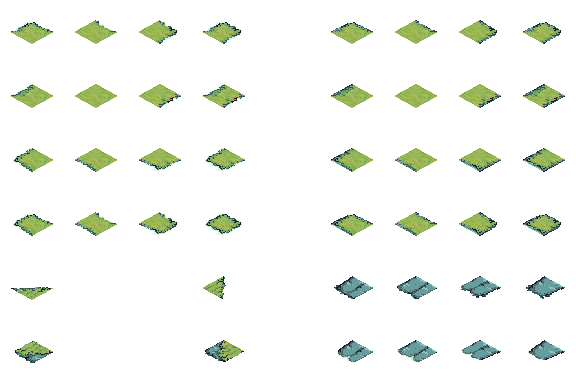
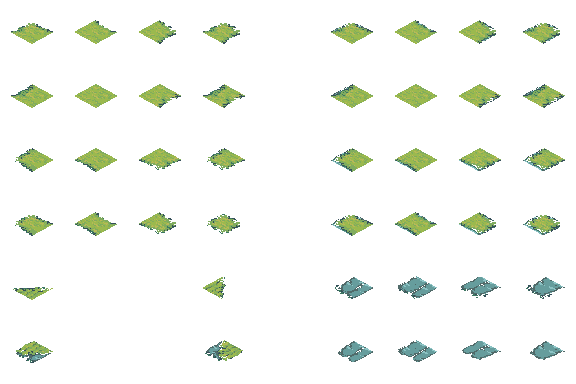
feat(rivage): l'ecume quitte la tuile, le gazon tombe net dans la mer
Le bord de mer du palier 1 portait son propre surf blanc, peint dans la
tuile, sous l'ecume animee que l'ile dessine par-dessus : deux cotes pour
un seul rivage. `palette-1` est repeint a la main pour n'en garder qu'une.

Le sheet est bake en webp lossless depuis le PNG de travail, au pixel
pres, et `TERRAIN_REV` passe a v5 — sans quoi les navigateurs servent
l'ancienne image depuis leur cache.

La story `Island/Shore Sets` reste comme banc d'essai : elle rend la meme
ile deux fois, cut des colonnes 0-3 et 5-8, avec zoom et point de visee,
pour juger un bord sur des pixels plutot que sur le commentaire du code.

diff --git a/src/stories/ShoreSets.stories.tsx b/src/stories/ShoreSets.stories.tsx
@@ -1,0 +1,276 @@
+/**
+ * The two blob sets on one island: which columns should draw the shore.
+ *
+ * The palette sheets are 9x6 and carry the SAME grass blob set twice. Columns
+ * 0-3 have the surf painted into the tile; columns 5-8 have a plain rock edge.
+ * `tileset.ts` takes 5-8 and the island animates its own foam over it — the
+ * reasoning being that a painted surf plus a moving one is two coastlines.
+ *
+ * This story exists to check that reasoning against pixels rather than against
+ * the comment. Both panels are the SAME seed, the same tier, the same animated
+ * foam: the only difference is which four columns the tier's blob set is cut
+ * from, so whatever changes between them is that choice and nothing else.
+ *
+ * Read the rim where land meets water. The question is whether 0-3's painted
+ * white reinforces the moving surf or fights it — and whether 5-8's dark rock
+ * edge is the hard line it looks like on the sheet.
+ */
+import type { Meta, StoryObj } from '@storybook/react-vite';
+import { Assets, Container, Graphics, Rectangle, Texture } from 'pixi.js';
+import { PixiStage } from './PixiStage';
+import {
+  generateIsland,
+  IsoIslandView,
+  loadIslandTileset,
+  TILE,
+  type IslandTileset,
+} from '@/game/island';
+
+/** The flat sea the game shows behind the island, standing in for the shader. */
+const SEA = '#0d8296';
+
+/** One panel. Two of them sit side by side in the stage. */
+const PANEL_W = 470;
+const PANEL_H = 540;
+
+/** The tier whose blob set gets swapped. 1-based, and 1 is the sea-level shelf. */
+const TIER = 1;
+
+/**
+ * The SHIPPED sheet, now that the repaint is baked.
+ *
+ * It carries `tileset.ts`'s `TERRAIN_REV`, because that is the URL the game
+ * actually serves and the browser has the old pixels cached under the previous
+ * one. While a repaint is still in progress, point this at the `.png` working
+ * file instead — Aseprite does not write webp, and `loadBlobSets` unloads
+ * before loading so each look picks up the latest save.
+ */
+const SHEET = '/assets/terrain/palette-1.webp?v=5';
+
+const PACK_FOAM = '/assets/terrain-iso/pack-foam.webp';
+const PACK_FOAM_FRAME = 128;
+const PACK_FOAM_FRAMES = 8;
+
+const PALETTE_COLS = 9;
+const PALETTE_ROWS = 6;
+
+/** The two candidate origins, named for what they carry on the tile's edge. */
+const ORIGINS = { surf: 0, rock: 5 } as const;
+type Edge = keyof typeof ORIGINS;
+
+function sliceGrid(base: Texture, cols: number, rows: number): Texture[][] {
+  return Array.from({ length: rows }, (_, row) =>
+    Array.from(
+      { length: cols },
+      (_, col) =>
+        new Texture({
+          source: base.source,
+          frame: new Rectangle(col * TILE, row * TILE, TILE, TILE),
+        }),
+    ),
+  );
+}
+
+/** Cut the 4x4 blob set starting at `origin`, which is the whole experiment. */
+/**
+ * Load the sheet once, fresh, and hand back both cuts of it.
+ *
+ * One load for the pair, deliberately: `Assets.unload` is what makes a repaint
+ * visible, and calling it per panel would have the second panel drop the sheet
+ * the first had just loaded. Both cuts share one GPU source, which is also
+ * what guarantees the two panels differ by their COLUMNS and nothing else.
+ */
+async function loadBlobSets(): Promise<Record<Edge, Texture[][]>> {
+  // Pixi caches by URL, and on a file being actively repainted that cache is
+  // the one failure mode that looks like "my edit did nothing".
+  await Assets.unload(SHEET).catch(() => {});
+  const sheet = await Assets.load<Texture>(SHEET);
+  const cells = sliceGrid(sheet, PALETTE_COLS, PALETTE_ROWS).slice(0, 4);
+  const cut = (origin: number) => cells.map((line) => line.slice(origin, origin + 4));
+  return { surf: cut(ORIGINS.surf), rock: cut(ORIGINS.rock) };
+}
+
+async function loadPackFoam(): Promise<Texture[]> {
+  const sheet = await Assets.load<Texture>(PACK_FOAM);
+  return Array.from(
+    { length: PACK_FOAM_FRAMES },
+    (_, i) =>
+      new Texture({
+        source: sheet.source,
+        frame: new Rectangle(i * PACK_FOAM_FRAME, 0, PACK_FOAM_FRAME, PACK_FOAM_FRAME),
+      }),
+  );
+}
+
+interface Args {
+  seed: string;
+  width: number;
+  height: number;
+  tiers: number;
+  land: number;
+  rise: number;
+  raggedness: number;
+  deco: boolean;
+  grass: boolean;
+  foam: boolean;
+  groundScale: number;
+  foamScale: number;
+  tileZ: number;
+  /** Magnification. 1 fits the whole island in the panel; 6 reads pixels. */
+  zoom: number;
+  /** Which point of the island the zoom centres on, each 0..1 of its box. */
+  focusX: number;
+  focusY: number;
+}
+
+/**
+ * Build one island into `stage` at `offsetX`, cut from `edge`'s columns.
+ *
+ * Everything but `edge` is shared with the other panel, which is what makes
+ * the pair a comparison rather than two islands.
+ */
+function buildPanel(
+  stage: import('pixi.js').Container,
+  app: { ticker: { add: (f: (t: { deltaMS: number }) => void) => void; remove: (f: (t: { deltaMS: number }) => void) => void } },
+  base: IslandTileset,
+  blobs: Texture[][],
+  args: Args,
+  offsetX: number,
+) {
+  const tierGrass = base.tierGrass.map((set, i) => (i === TIER - 1 ? blobs : set));
+  const tileset: IslandTileset = { ...base, tierGrass, foam: base.foam };
+
+  // Each panel gets a clipped window of its own. Zoomed in, an island is wider
+  // than its half of the stage and would otherwise spill across the divider
+  // into its neighbour — which on a side-by-side comparison means reading one
+  // set's rim and believing it is the other's.
+  const frame = new Container();
+  frame.x = offsetX;
+  frame.boundsArea = new Rectangle(0, 0, PANEL_W, PANEL_H);
+  const clip = new Graphics().rect(0, 0, PANEL_W, PANEL_H).fill(0xffffff);
+  frame.addChild(clip);
+  frame.mask = clip;
+  stage.addChild(frame);
+
+  const map = generateIsland({
+    seed: args.seed,
+    width: args.width,
+    height: args.height,
+    tiers: args.tiers,
+    land: args.land,
+    rise: args.rise,
+    raggedness: args.raggedness,
+  });
+
+  const island = new IsoIslandView({
+    map,
+    tileset,
+    ground: 'tiered',
+    deco: args.deco,
+    grass: args.grass,
+    sea: false,
+    foam: args.foam,
+    groundScale: args.groundScale,
+    foamScale: args.foamScale,
+    metrics: { w: 64, h: 32, z: args.tileZ },
+  });
+  frame.addChild(island.view);
+
+  // `fit` is the scale that shows the whole island, and `zoom` multiplies it.
+  // Deriving the magnification from the fit rather than setting it absolutely
+  // keeps the two panels locked together whatever the island's size: at any
+  // zoom they are the same scale, which is the whole point of the pair.
+  const fit = Math.min(PANEL_W / island.width, PANEL_H / island.height);
+  const scale = fit * args.zoom;
+  island.view.scale.set(scale);
+  // Put the focus point at the panel's centre. At zoom 1 this is the ordinary
+  // centred fit; past it the island grows past the panel and this is what
+  // decides which part stays on screen — the rim, by default, since a shore
+  // tile is what the story is for.
+  // Panel-local, since the view now hangs off `frame` — which carries the
+  // offset itself.
+  island.view.position.set(
+    PANEL_W / 2 - island.width * scale * args.focusX,
+    PANEL_H / 2 - island.height * scale * args.focusY,
+  );
+
+  const ticker = (t: { deltaMS: number }) => island.update(t.deltaMS);
+  app.ticker.add(ticker);
+  return () => {
+    app.ticker.remove(ticker);
+    island.destroy();
+    frame.destroy({ children: true });
+  };
+}
+
+function Scene(args: Args) {
+  let base: IslandTileset | null = null;
+  let surf: Texture[][] | null = null;
+  let rock: Texture[][] | null = null;
+
+  return (
+    <PixiStage
+      width={PANEL_W * 2}
+      height={PANEL_H}
+      background={SEA}
+      prepare={async () => {
+        const loaded = await loadIslandTileset();
+        // The shipped `foam.webp` is a flat lozenge; the pack's strip is the
+        // real animated surf, and the surf is the thing both edges are being
+        // judged against.
+        base = { ...loaded, foam: await loadPackFoam() };
+        ({ surf, rock } = await loadBlobSets());
+      }}
+      setup={(stage, app) => {
+        if (!base || !surf || !rock) return;
+        // Left panel is columns 0-3, right is 5-8 — the same order as the
+        // sheet, so the story reads the way the file does.
+        const stopL = buildPanel(stage, app, base, surf, args, 0);
+        const stopR = buildPanel(stage, app, base, rock, args, PANEL_W);
+        return () => {
+          stopL();
+          stopR();
+        };
+      }}
+    />
+  );
+}
+
+const meta: Meta<Args> = {
+  title: 'Island/Shore Sets',
+  render: (args) => <Scene key={JSON.stringify(args)} {...args} />,
+  args: {
+    seed: 'harbour-9',
+    width: 24,
+    height: 24,
+    tiers: 3,
+    land: 0.46,
+    rise: 0.55,
+    raggedness: 0.4,
+    deco: false,
+    grass: false,
+    foam: true,
+    groundScale: 1.52,
+    foamScale: 1.8,
+    tileZ: 6,
+    // Close enough to read individual pixels of the rim, which is the whole
+    // question — the fitted island is far too small to judge a 2px liseré.
+    zoom: 5,
+    // The west shore: a long run of open rim with no cliff and no plateau
+    // behind it, so nothing competes with the edge being compared.
+    focusX: 0.28,
+    focusY: 0.62,
+  },
+  argTypes: {
+    zoom: { control: { type: 'range', min: 1, max: 12, step: 0.5 } },
+    focusX: { control: { type: 'range', min: 0, max: 1, step: 0.01 } },
+    focusY: { control: { type: 'range', min: 0, max: 1, step: 0.01 } },
+  },
+};
+export default meta;
+
+/** Left: columns 0-3, surf painted in. Right: columns 5-8, rock edge. */
+export const SurfVsRock: StoryObj<Args> = {};
+
+/** The same pair with the animated foam off, to see each edge bare. */
+export const NoFoam: StoryObj<Args> = { args: { foam: false } };

diff --git a/src/game/island/tileset.ts b/src/game/island/tileset.ts
@@ -52,7 +52,10 @@ const UNITS = '/assets/units';
 // v4 (2026-09-18): the flat sheet widened from 10 to 11 columns. Column 10 is
 // not from the pack — it is where RR's own tiles are painted straight into the
 // baked sheet, in iso, rather than drawn flat and projected.
-const TERRAIN_REV = '?v=4';
+// v5 (2026-09-21): `palette-1` repainted by hand — the white surf taken off
+// the shoreline set's edge, so the tile no longer draws a coastline of its own
+// under the animated foam.
+const TERRAIN_REV = '?v=5';
 const terrain = (file: string) => `${TERRAIN}/${file}${TERRAIN_REV}`;
 
 export const ISLAND_SHEETS = {
